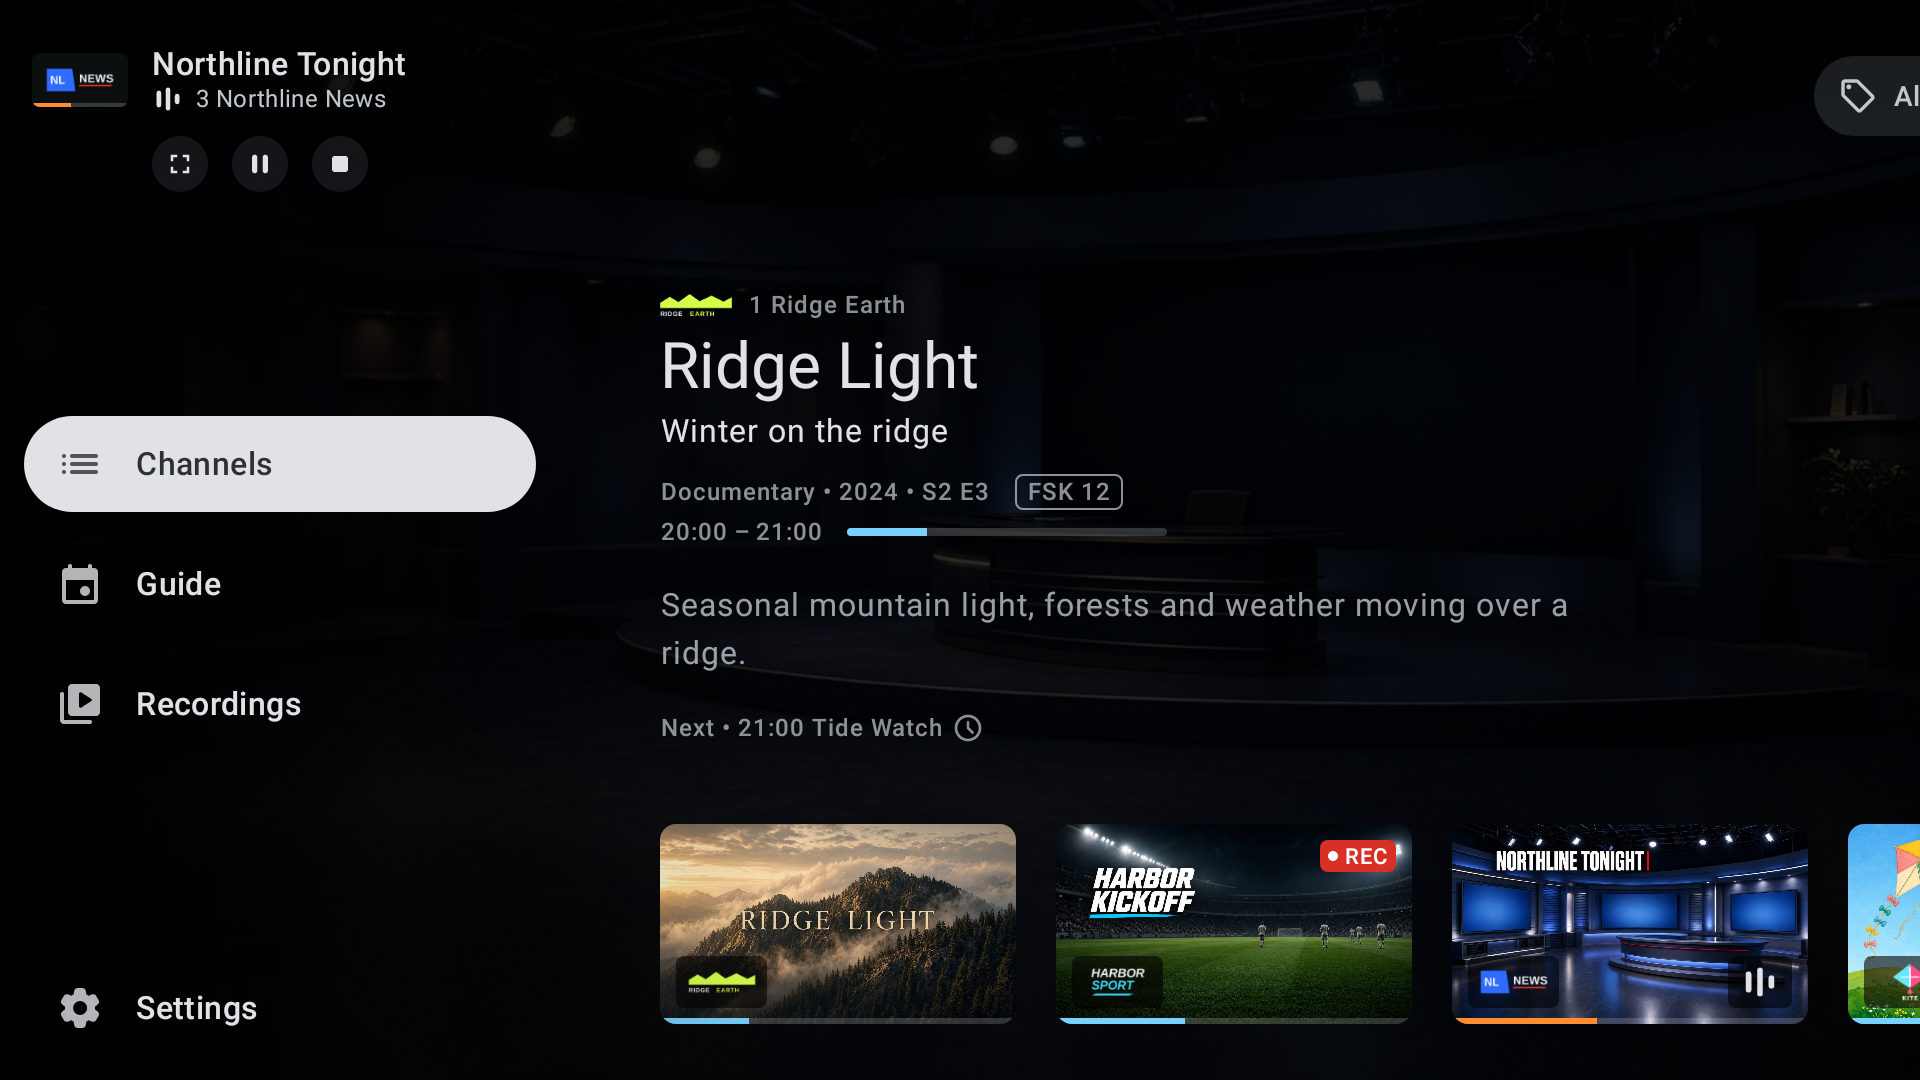
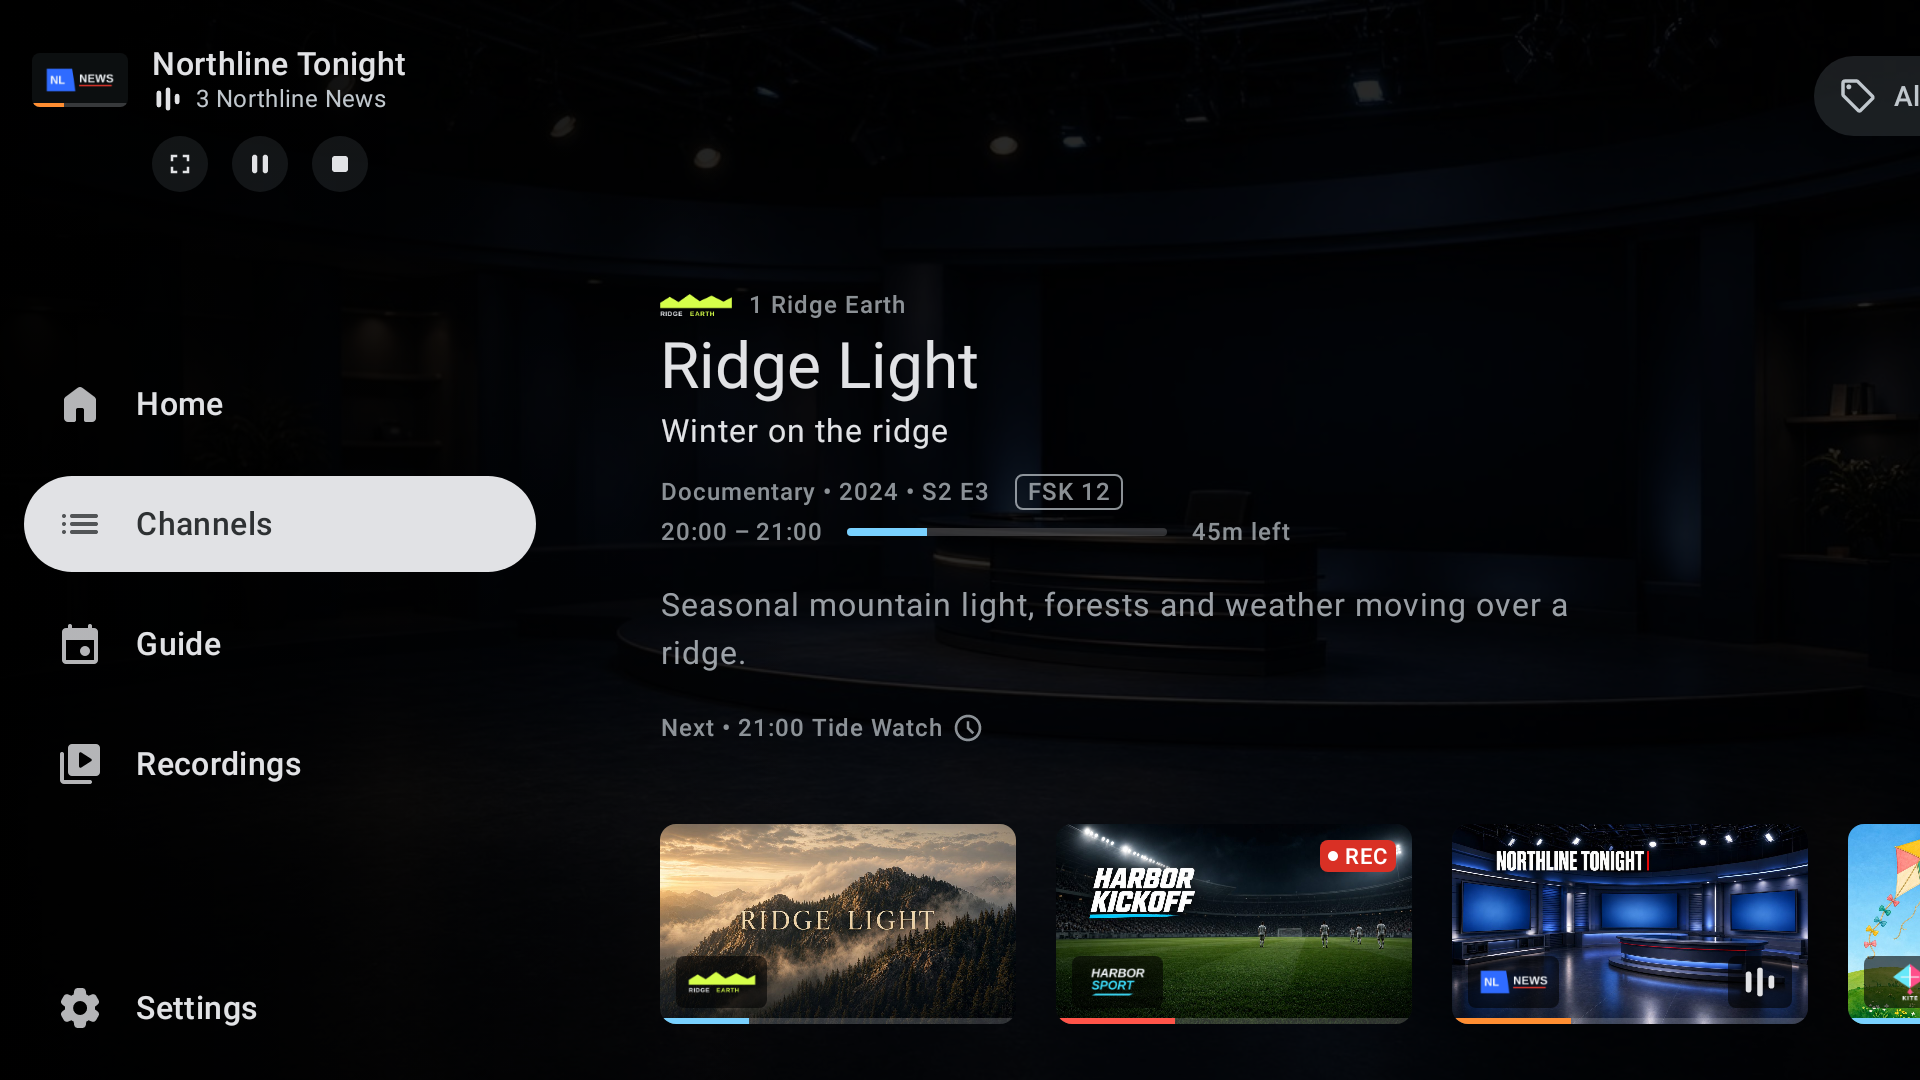
release: prepare 0.4.3

Changed region(s): [[0.0, 0.3667, 0.2812, 0.7333], [0.625, 0.4889, 0.6875, 0.5194], [0.5625, 0.9167, 0.625, 0.9472]]

diff --git a/README.md b/README.md
@@ -22,7 +22,7 @@ the D-pad.
 
 | | | |
 |---|---|---|
-| ![Channels as a list, with Ridge Earth focused and Ridge Light's picture and details beside it](artwork/screenshots/channels-list.png) | ![Channels as a grid of program pictures, with Ridge Light on Ridge Earth focused](artwork/screenshots/channels-grid.png) | ![Channels as large cards without program pictures, showing channel logos and text](artwork/screenshots/channels-logos.png) |
+| ![Channels as a list, with Ridge Earth focused and Ridge Light's picture and details beside it](artwork/screenshots/channels-list.png) | ![Channels as a wall of cards with program pictures and channel logos, with Ridge Earth focused](artwork/screenshots/channels-grid.png) | ![Channels as large cards without program pictures, showing channel logos and text](artwork/screenshots/channels-logos.png) |
 | Channels as a list | Channels as a grid | Channels without program pictures |
 
 | | |
